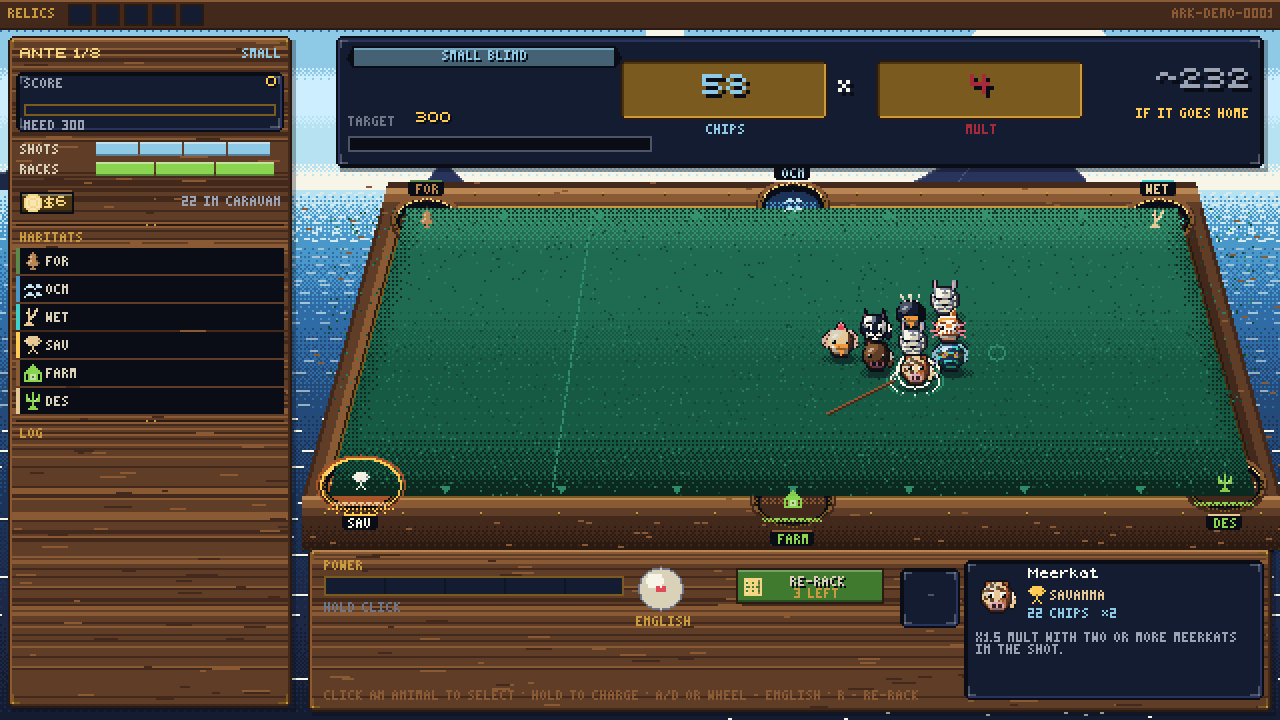
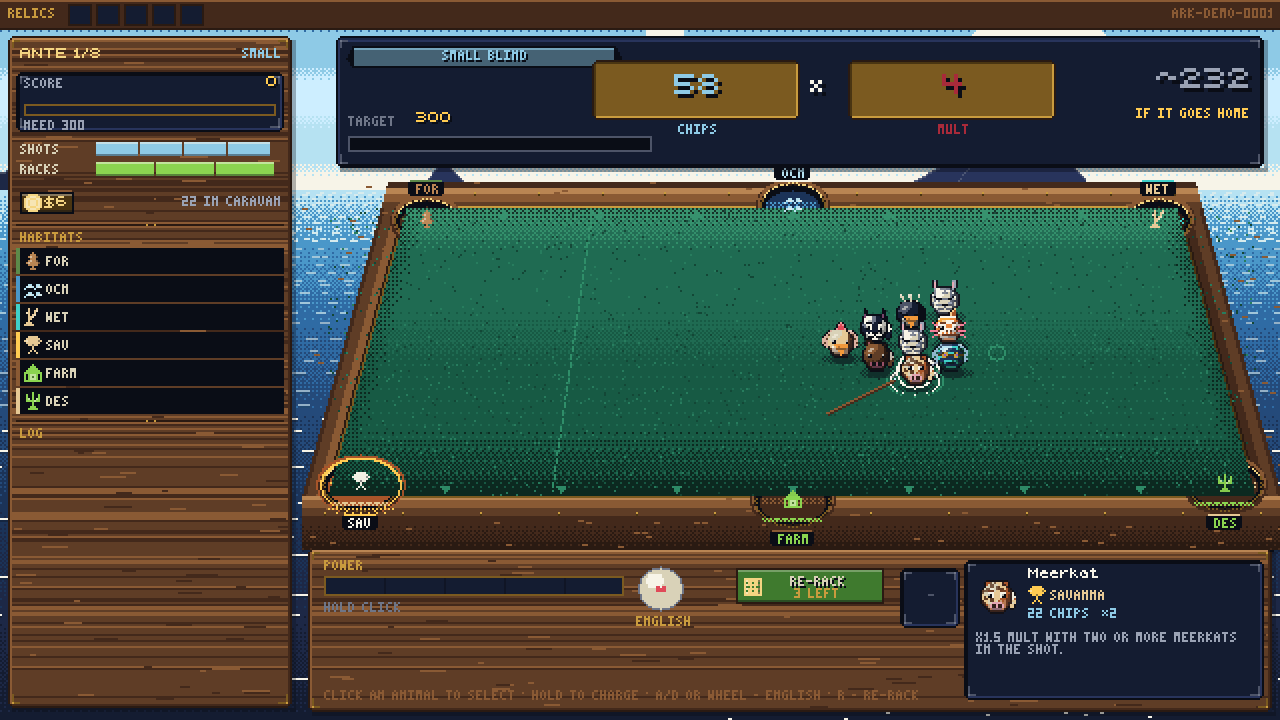
Pocket Ark: rebuild the run summary, and final feel pass
- scenes/gameover.js: the summary was pale text on a brushed brass slab — effectively
  unreadable — with the content crammed into the top-left third of a panel twice the size
  it needed. It is now four dark plates with striped rows: ship's log, final caravan by
  habitat, relics carried, and a parade of every animal you saved. The headline and the
  seed get a scrim, because gold on a pale morning sky has no contrast either.
- The deck readout no longer prints "+0 THIS SHOT" while the first animal of a shot is
  still being resolved, and the step banner clamps itself inside the panel instead of
  spilling over a gate label.

Verified: 274 assertions, 22 blinds played end to end through the real scenes, and a
locked 60fps in Chromium with live WebAudio and no console errors.

Claude-Session: https://claude.ai/code/session_0195ybFNh1CYQFhWuYhz5nNz

diff --git a/src/scenes/gameover.js b/src/scenes/gameover.js
@@ -14,71 +14,97 @@ import { caravanBreakdown } from '../game/run.js';
 
 export function makeGameOverScene() {
   let run = null, won = false, onDone = null;
-  let sea = null, parts = null, t = 0, k = 0;
-  const again = UI.rectOf(230, 306, 180, 22);
+  let sea = null, parts = null, t = 0, kk = 0;
+  const again = UI.rectOf(226, 288, 188, 26);
 
   function draw(g) {
     sea.draw(g, {
       x: 0, y: 0, w: 640, h: 360, horizonY: 150,
       timeOfDay: won ? 0.2 : 0.78, storm: won ? 0 : 0.7, parallax: 0.6, reflect: true,
     });
-    wash(g, 0, 0, 640, 360, won ? 'gold' : 'ink', won ? 0.08 : 0.4);
+    wash(g, 0, 0, 640, 360, won ? 'gold' : 'ink', won ? 0.06 : 0.42);
     parts.draw(g, 'back');
 
-    const yy = lerp(-40, 20, Ease.outBack(clamp(k, 0, 1)));
-    UI.panel(g, 90, yy, 460, 276, { style: won ? 'brass' : 'slate', shadow: true });
-    text(g, won ? 'THE ARK MAKES LANDFALL' : 'THE ARK IS LOST', 320, yy + 8, won ? 'gold' : 'red2', { center: true, outline: 'ink' });
-    text(g, won ? 'every habitat filled, every ante survived' : `you went down on ante ${run.ante}`, 320, yy + 22, 'bone', { font: 3, center: true });
+    const k = Ease.outBack(clamp(kk, 0, 1));
+    const yy = Math.round(lerp(-70, 34, k));
+    const s2 = run.stats;
 
-    const s = run.stats;
+    // --- headline
+    const title = won ? 'THE ARK MAKES LANDFALL' : 'THE ARK IS LOST';
+    // a scrim behind the headline: gold on a pale morning sky has no contrast
+    const tw = textW(title, { scale: 2 }) + 24;
+    wash(g, 320 - tw / 2, yy + 10, tw, 22, 'ink', 0.55);
+    text(g, title, 320, yy + 18, 'ink', { center: true, scale: 2 });
+    text(g, title, 320, yy + 16, won ? 'gold' : 'red2', { center: true, scale: 2, shadow: 'ink' });
+    text(g, won ? 'every habitat filled, every ante survived'
+      : `the water took you on ante ${Math.max(1, run.ante)}`,
+      320, yy + 38, 'bone', { font: 3, center: true });
+
+    // --- the log: dark plates, because pale text on brass cannot be read
+    const antes = won ? 8 : Math.max(0, run.ante - 1);
     const rows = [
-      ['Antes survived', `${Math.max(0, run.ante - (won ? 0 : 1))} / 8`],
-      ['Blinds cleared', String(s.blindsCleared)],
-      ['Animals rehomed', String(s.exact)],
-      ['Wrong gates', String(s.wrong)],
-      ['Animals devoured', String(s.eaten)],
-      ['Best single shot', String(s.bestShot)],
-      ['Shots taken', String(s.shotsTaken)],
-      ['Money earned', '$' + s.moneyEarned],
-      ['Crates unloaded', String(s.cratesBought)],
+      ['Antes survived', `${antes} / 8`, antes >= 8 ? 'gold' : 'white'],
+      ['Blinds cleared', String(s2.blindsCleared), 'white'],
+      ['Animals rehomed', String(s2.exact), 'green1'],
+      ['Wrong gates', String(s2.wrong), s2.wrong > s2.exact ? 'red2' : 'grey2'],
+      ['Animals devoured', String(s2.eaten), 'red2'],
+      ['Best single shot', String(s2.bestShot), 'gold'],
+      ['Shots taken', String(s2.shotsTaken), 'white'],
+      ['Money earned', '$' + s2.moneyEarned, 'brass3'],
+      ['Crates unloaded', String(s2.cratesBought), 'sky'],
     ];
+    UI.panel(g, 34, yy + 52, 262, 124, { style: 'slate', shadow: true, title: "SHIP'S LOG" });
     rows.forEach((r, i) => {
-      const ry = yy + 40 + i * 11;
-      text(g, r[0], 108, ry, 'grey2', { font: 3 });
-      text(g, r[1], 300, ry, 'white', { font: 3, right: true });
+      const ry = yy + 62 + i * 12;
+      if (i % 2 === 0) rect(g, 38, ry - 1, 254, 11, 'deep');
+      text(g, r[0], 44, ry + 1, 'grey2', { font: 3 });
+      text(g, r[1], 288, ry, r[2], { right: true, font: 3 });
     });
 
-    // caravan census on the right
-    text(g, 'FINAL CARAVAN', 318, yy + 38, 'brass2', { font: 3 });
+    // --- census
+    UI.panel(g, 306, yy + 52, 300, 124, { style: 'slate', shadow: true, title: 'FINAL CARAVAN' });
     const cb = caravanBreakdown(run);
-    let cy = yy + 48;
-    for (const hid of Object.keys(cb.byHome)) {
+    const homes = Object.keys(cb.byHome).sort((a, b) => cb.byHome[b] - cb.byHome[a]);
+    homes.slice(0, 9).forEach((hid, i) => {
       const hab = HABITAT_BY_ID[hid];
-      if (!hab) continue;
-      UI.icon(g, hab.icon, 318, cy, { color: hab.color });
-      text(g, `${hab.name} x${cb.byHome[hid]}`, 330, cy + 2, 'bone', { font: 3 });
-      cy += 10;
+      if (!hab) return;
+      const cxx = 314 + (i % 2) * 148;
+      const cyy = yy + 62 + Math.floor(i / 2) * 12;
+      rect(g, cxx, cyy - 1, 142, 11, i % 4 < 2 ? 'deep' : 'shadow');
+      rect(g, cxx, cyy - 1, 2, 11, hab.color);
+      UI.icon(g, hab.icon, cxx + 4, cyy, { color: hab.accent || hab.color });
+      text(g, hab.name, cxx + 16, cyy + 1, 'bone', { font: 3 });
+      text(g, 'x' + cb.byHome[hid], cxx + 138, cyy + 1, 'white', { font: 3, right: true });
+    });
+    text(g, `${cb.total} animals aboard`, 596, yy + 164, 'brass2', { font: 3, right: true });
+
+    // --- relics
+    UI.panel(g, 34, yy + 182, 262, 46, { style: 'slate', shadow: true, corners: false });
+    text(g, 'RELICS CARRIED', 40, yy + 186, 'brass2', { font: 3 });
+    if (run.relics.length) {
+      run.relics.forEach((r, i) => {
+        const rx = 40 + i * 16, ry = yy + 196;
+        rect(g, rx, ry, 14, 14, 'ink');
+        frame(g, rx, ry, 14, 14, UI.RARITY_COLOR[r.rarity] || 'grey2');
+        UI.icon(g, (r.art && r.art.icon) || 'gem', rx + 3, ry + 3, { color: (r.art && r.art.fg) || 'brass3' });
+      });
+    } else {
+      text(g, 'none — you played it bare', 40, yy + 200, 'grey1', { font: 3 });
     }
 
-    // relic row
-    text(g, 'RELICS CARRIED', 318, yy + 152, 'brass2', { font: 3 });
-    run.relics.forEach((r, i) => {
-      const rx = 318 + (i % 6) * 16, ry = yy + 162 + Math.floor(i / 6) * 16;
-      rect(g, rx, ry, 14, 14, 'ink');
-      frame(g, rx, ry, 14, 14, UI.RARITY_COLOR[r.rarity] || 'grey2');
-      UI.icon(g, (r.art && r.art.icon) || 'gem', rx + 3, ry + 3, { color: (r.art && r.art.fg) || 'brass3' });
-    });
-
-    // a parade of the animals you saved
-    text(g, 'ABOARD', 108, yy + 152, 'brass2', { font: 3 });
-    const uniq = Array.from(new Set(run.caravan)).slice(0, 40);
+    // --- the animals you saved
+    UI.panel(g, 306, yy + 182, 300, 46, { style: 'slate', shadow: true, corners: false });
+    text(g, 'ABOARD', 312, yy + 186, 'brass2', { font: 3 });
+    const uniq = Array.from(new Set(run.caravan)).slice(0, 46);
     uniq.forEach((id, i) => {
       const a = ANIMAL_BY_ID[id];
       if (!a) return;
-      drawAnimalIcon(g, a, 112 + (i % 16) * 12, yy + 168 + Math.floor(i / 16) * 12, { scale: 1 });
+      drawAnimalIcon(g, a, 318 + (i % 23) * 12, yy + 202 + Math.floor(i / 23) * 12, { scale: 1 });
     });
 
-    text(g, 'SEED  ' + run.seed, 320, yy + 244, 'grey1', { font: 3, center: true });
+    const sw = textW('SEED  ' + run.seed, { font: 3 }) + 12;
+    wash(g, 320 - sw / 2, yy + 232, sw, 9, 'ink', 0.5);
+    text(g, 'SEED  ' + run.seed, 320, yy + 234, 'foam', { font: 3, center: true });
     UI.button(g, again, 'BACK TO THE HARBOUR', {
       state: UI.hover(again, Input.mouse) ? 'hover' : 'idle', color: won ? 'brass1' : 'wood2',
     });
@@ -87,7 +113,7 @@ export function makeGameOverScene() {
 
   function update(dt) {
     t += dt;
-    k = approach(k, 1, 3.4, dt);
+    kk = approach(kk, 1, 3.4, dt);
     sea.update(dt);
     parts.update(dt);
     if (won && t % 0.5 < dt) parts.emit('confetti', 60 + ((t * 137) % 520), -6, { count: 6, speed: 40, life: 3 });
@@ -102,7 +128,7 @@ export function makeGameOverScene() {
       run = args.run; won = !!args.won; onDone = args.onDone;
       sea = createSeascape(run.seed + '/end', {});
       parts = createParticles({ limit: 400, seed: run.seed + '/end' });
-      t = 0; k = 0;
+      t = 0; kk = 0;
       Audio.music(won ? 'victory' : 'gameover');
       Audio.sfx(won ? 'fanfare' : 'fail');
     },

diff --git a/src/scenes/table.js b/src/scenes/table.js
@@ -649,7 +649,7 @@ export function makeTableScene() {
     });
 
     // --- centre: chips x mult, at a size you can read from across the room
-    const cx = x + w / 2 + 26;
+    const cx = x + Math.round(w * 0.5) + 12;
     const bw = 104, bh = 30;
     // While aiming, the readout previews the shot instead of sitting on zero — a dead
     // 0 x 0 tells the player nothing, and this is the number they are aiming at.
@@ -677,7 +677,7 @@ export function makeTableScene() {
       text(g, projected.match === 'exact' ? 'IF IT GOES HOME' : projected.match === 'partial' ? 'IF IT GOES CLOSE' : 'IF IT GOES WRONG',
         x + w - 8, y + 36, projected.match === 'exact' ? 'gold' : projected.match === 'partial' ? 'sky' : 'red2',
         { font: 3, right: true });
-    } else if (phase === 'score' || shotScore) {
+    } else if (shotScore > 0) {
       text(g, '+' + shotScore, x + w - 8, y + 16, 'gold', { right: true, scale: 2, shadow: 'ink' });
       text(g, 'THIS SHOT', x + w - 8, y + 36, 'brass2', { font: 3, right: true });
     }
@@ -685,10 +685,11 @@ export function makeTableScene() {
     // --- the step banner: what just fired, in the colour of what kind of thing it was
     if (bannerT > 0 && bannerText) {
       const bw2 = textW(bannerText) + 16;
+      const bcx = clamp(cx, x + bw2 / 2 + 4, x + w - bw2 / 2 - 4);
       const by = y + h - 4;
-      box(g, cx - bw2 / 2, by, bw2, 13, 'ink', 1);
-      boxFrame(g, cx - bw2 / 2, by, bw2, 13, bannerColor, 1);
-      text(g, bannerText, cx, by + 3, bannerColor, { center: true });
+      box(g, bcx - bw2 / 2, by, bw2, 13, 'ink', 1);
+      boxFrame(g, bcx - bw2 / 2, by, bw2, 13, bannerColor, 1);
+      text(g, bannerText, bcx, by + 3, bannerColor, { center: true });
     }
   }
 
